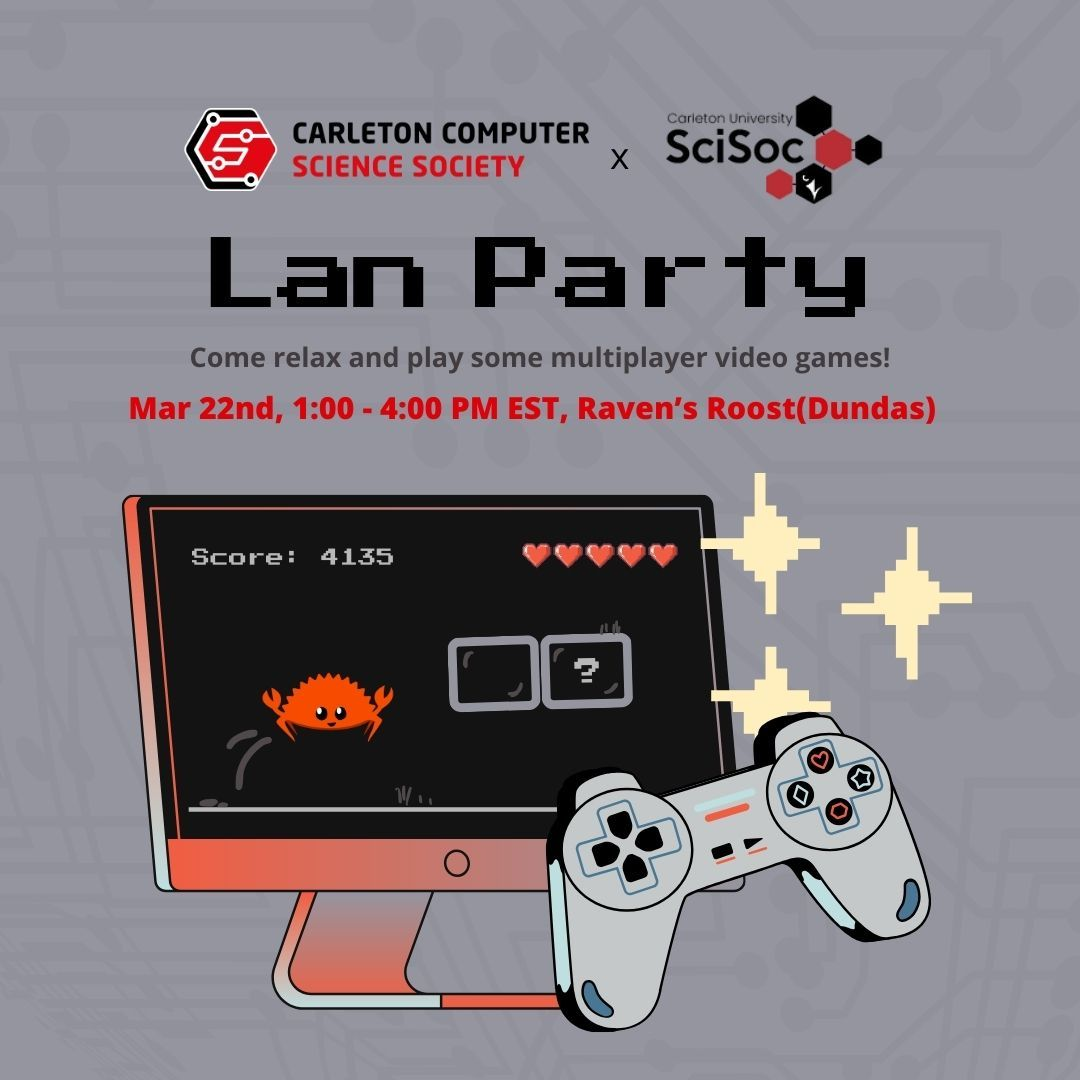
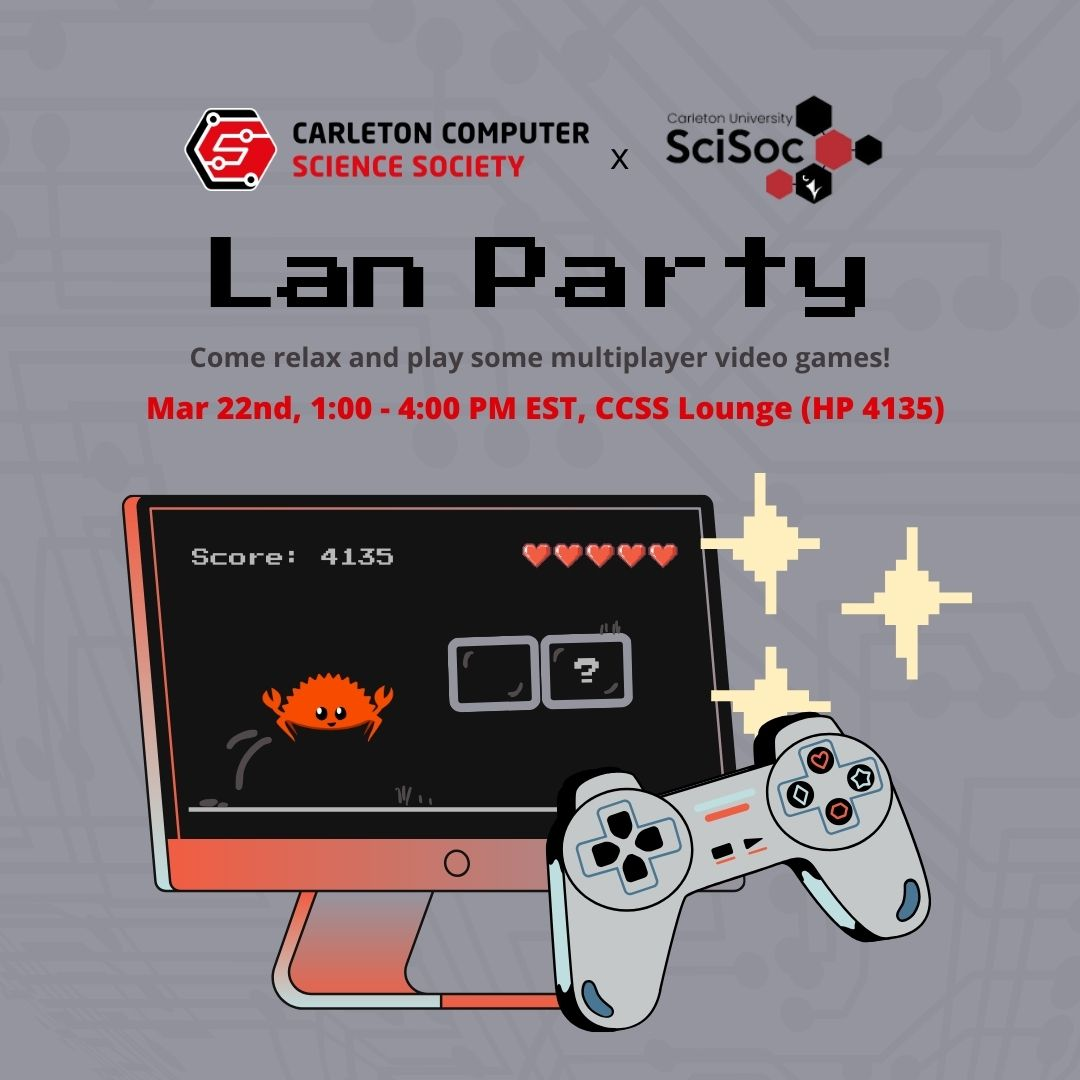
Updated Lan Party Location.

Changed region(s): [[0.1222, 0.3667, 0.8861, 0.3972]]

diff --git a/content/events/2023-2024/2024-03-22-lan-party.md b/content/events/2023-2024/2024-03-22-lan-party.md
@@ -9,8 +9,7 @@ poster_cover: "contain"
 poster_position: "center"
 short_description: "Take a break from your studies with us with some fun multiplayer video games!"
 start_time: "1:00 - 4:00 PM EST"
-location: "Raven's Roost"
-location_link: "https://housing.carleton.ca/current-residents/get-involved/ravens-roost/"
+location: "CCSS Lounge (HP 4135)"
 background: "images/orientation2018-min.jpeg"
 publishdate: 2021-11-24
 ---
